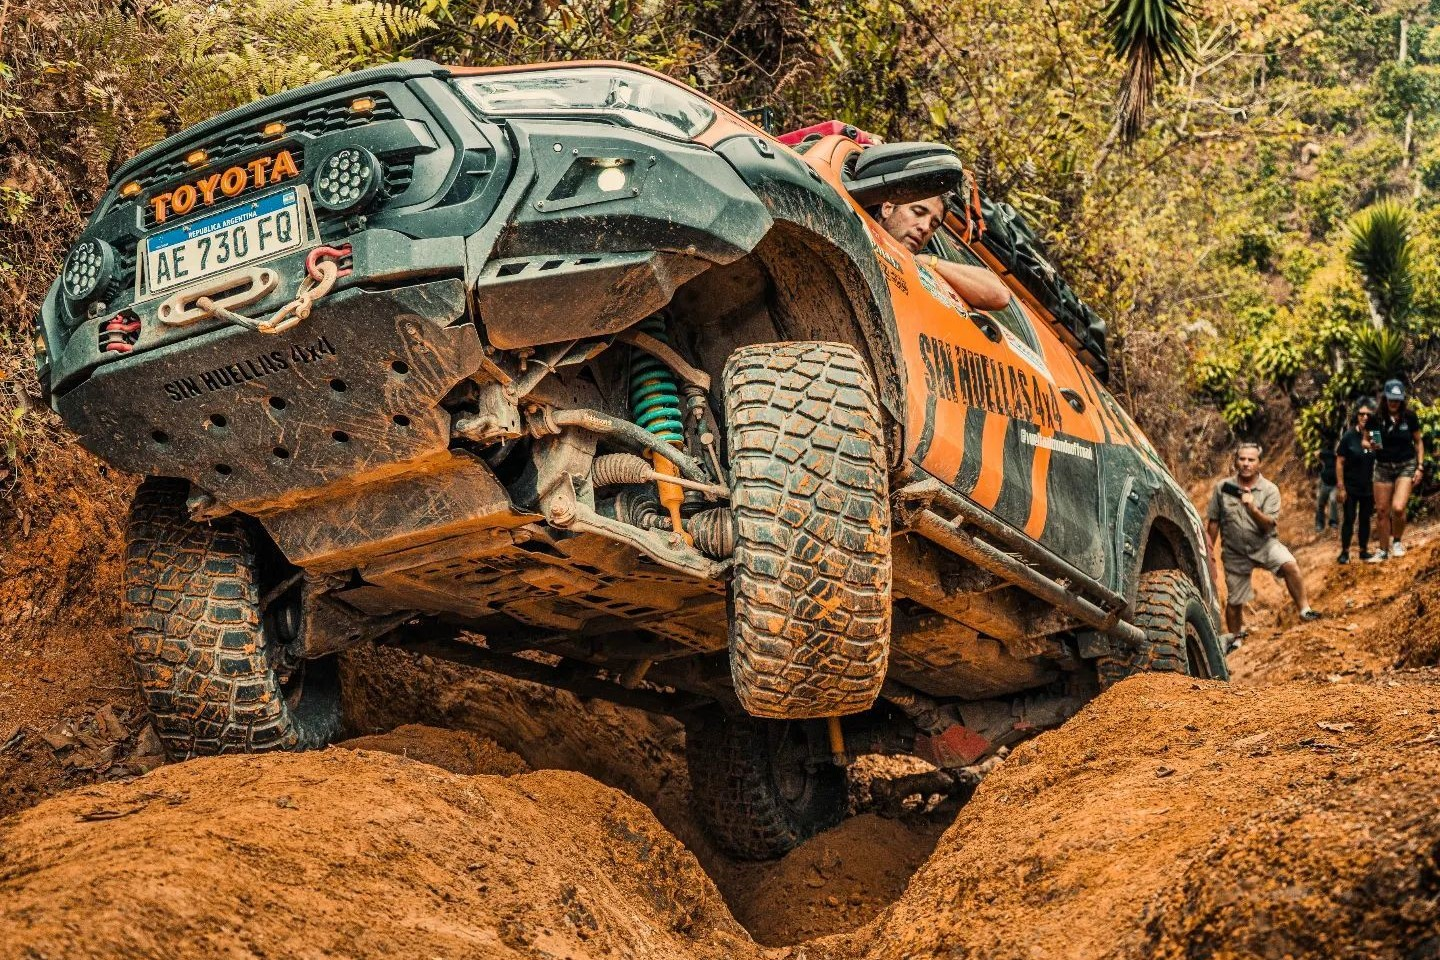
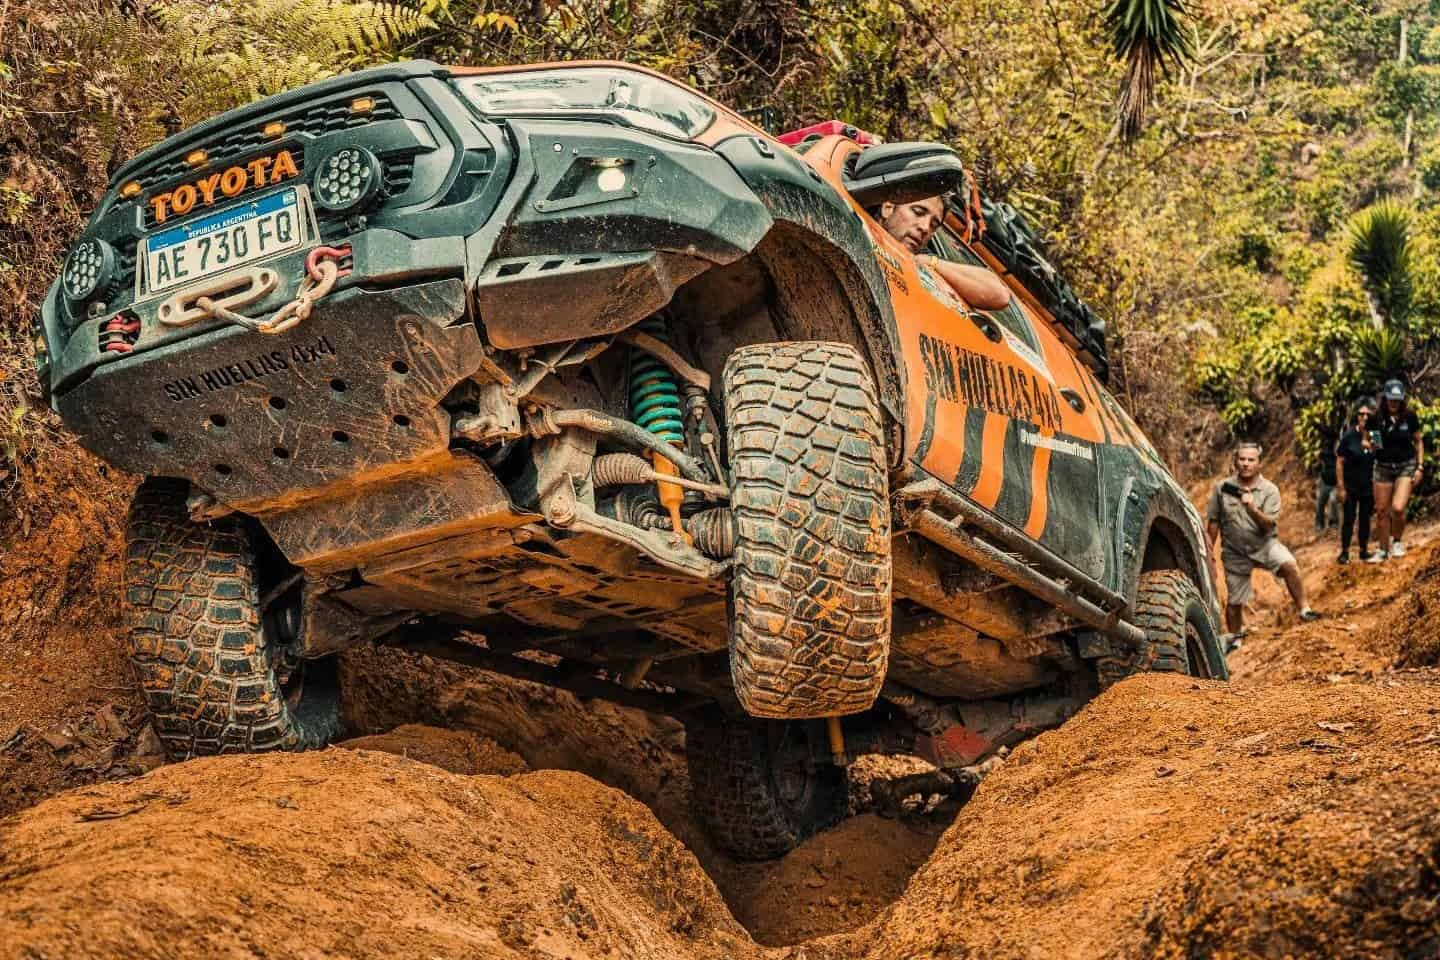
optimizando imagenes

diff --git a/scss/style.scss b/scss/style.scss
@@ -186,11 +186,18 @@ main {
 /*Travesias*/
 
 .tr-card {
-    opacity: 0.9;
+
     transition: all 300ms ease;
 
+    img{
+        filter: grayscale(100%);
+        transition: all 200ms ease;
+        &:hover {
+            filter: grayscale(0%);
+        }
+    }
+
     &:hover {
-        opacity: 1;
         box-shadow: 3px 4px 9px grey;
         transform: scale(1.02);
     }

diff --git a/CSS/style.css b/CSS/style.css
@@ -149,11 +149,16 @@ main .tercer-texto-iconos {
 
 /*Travesias*/
 .tr-card {
-  opacity: 0.9;
   transition: all 300ms ease;
 }
+.tr-card img {
+  filter: grayscale(100%);
+  transition: all 200ms ease;
+}
+.tr-card img:hover {
+  filter: grayscale(0%);
+}
 .tr-card:hover {
-  opacity: 1;
   box-shadow: 3px 4px 9px grey;
   transform: scale(1.02);
 }
